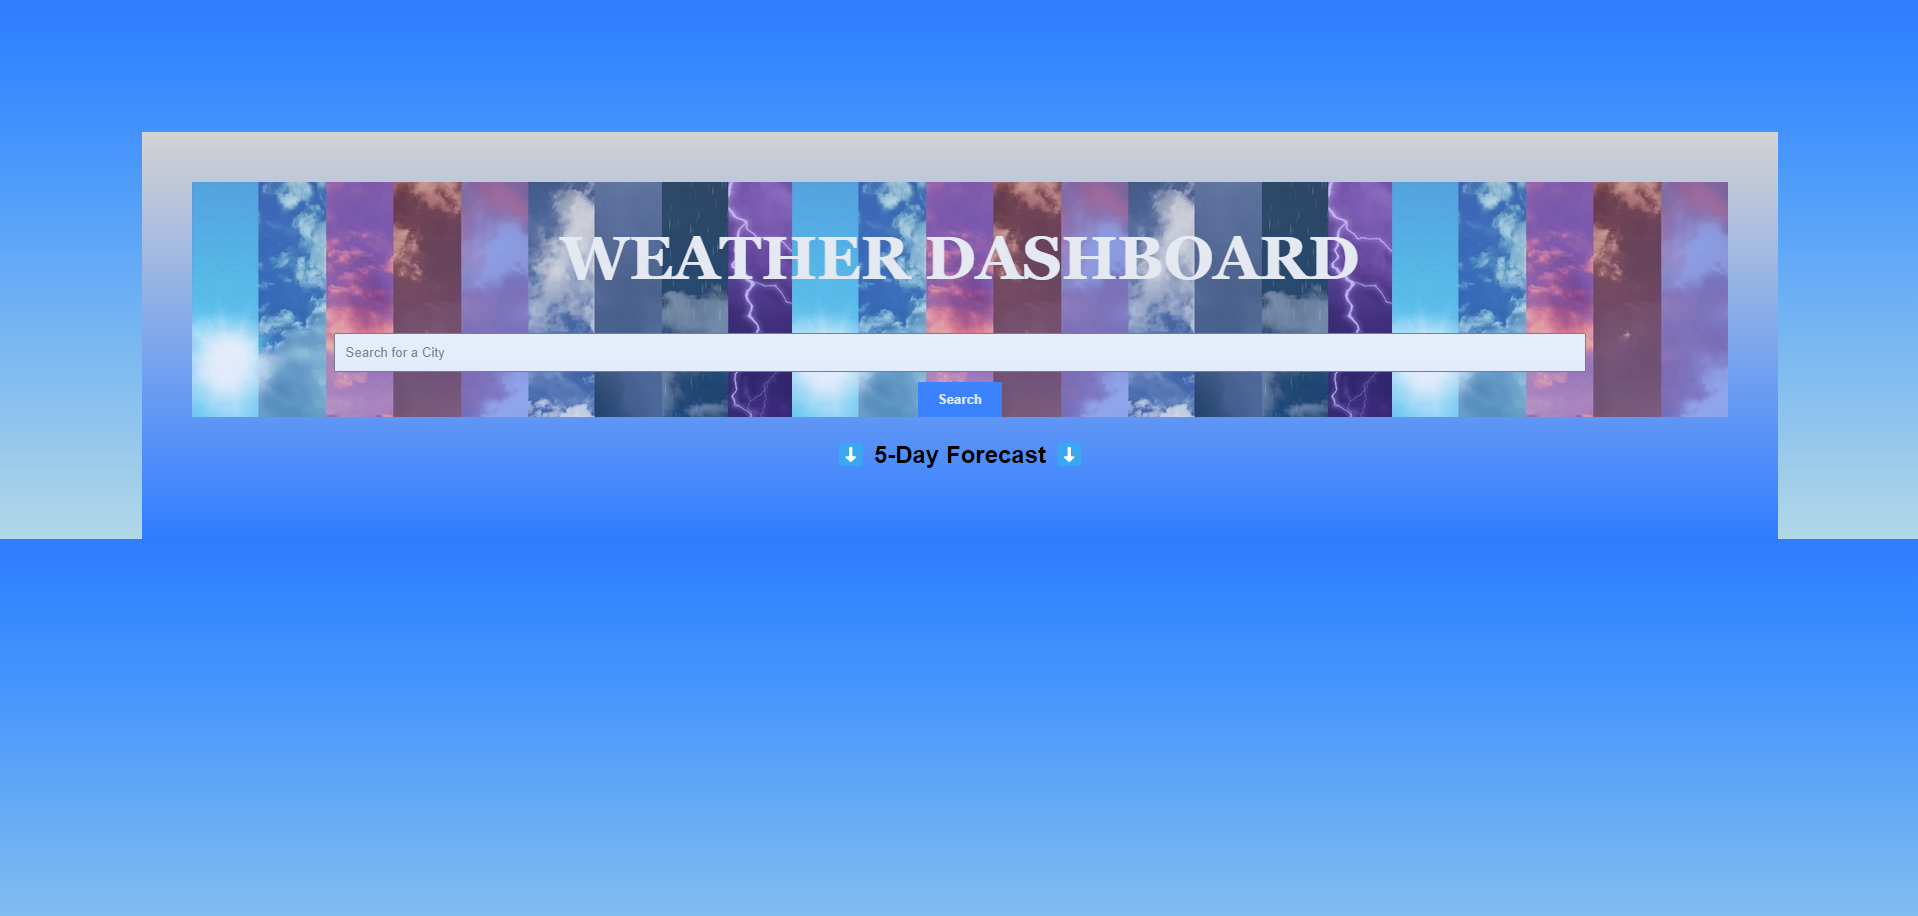
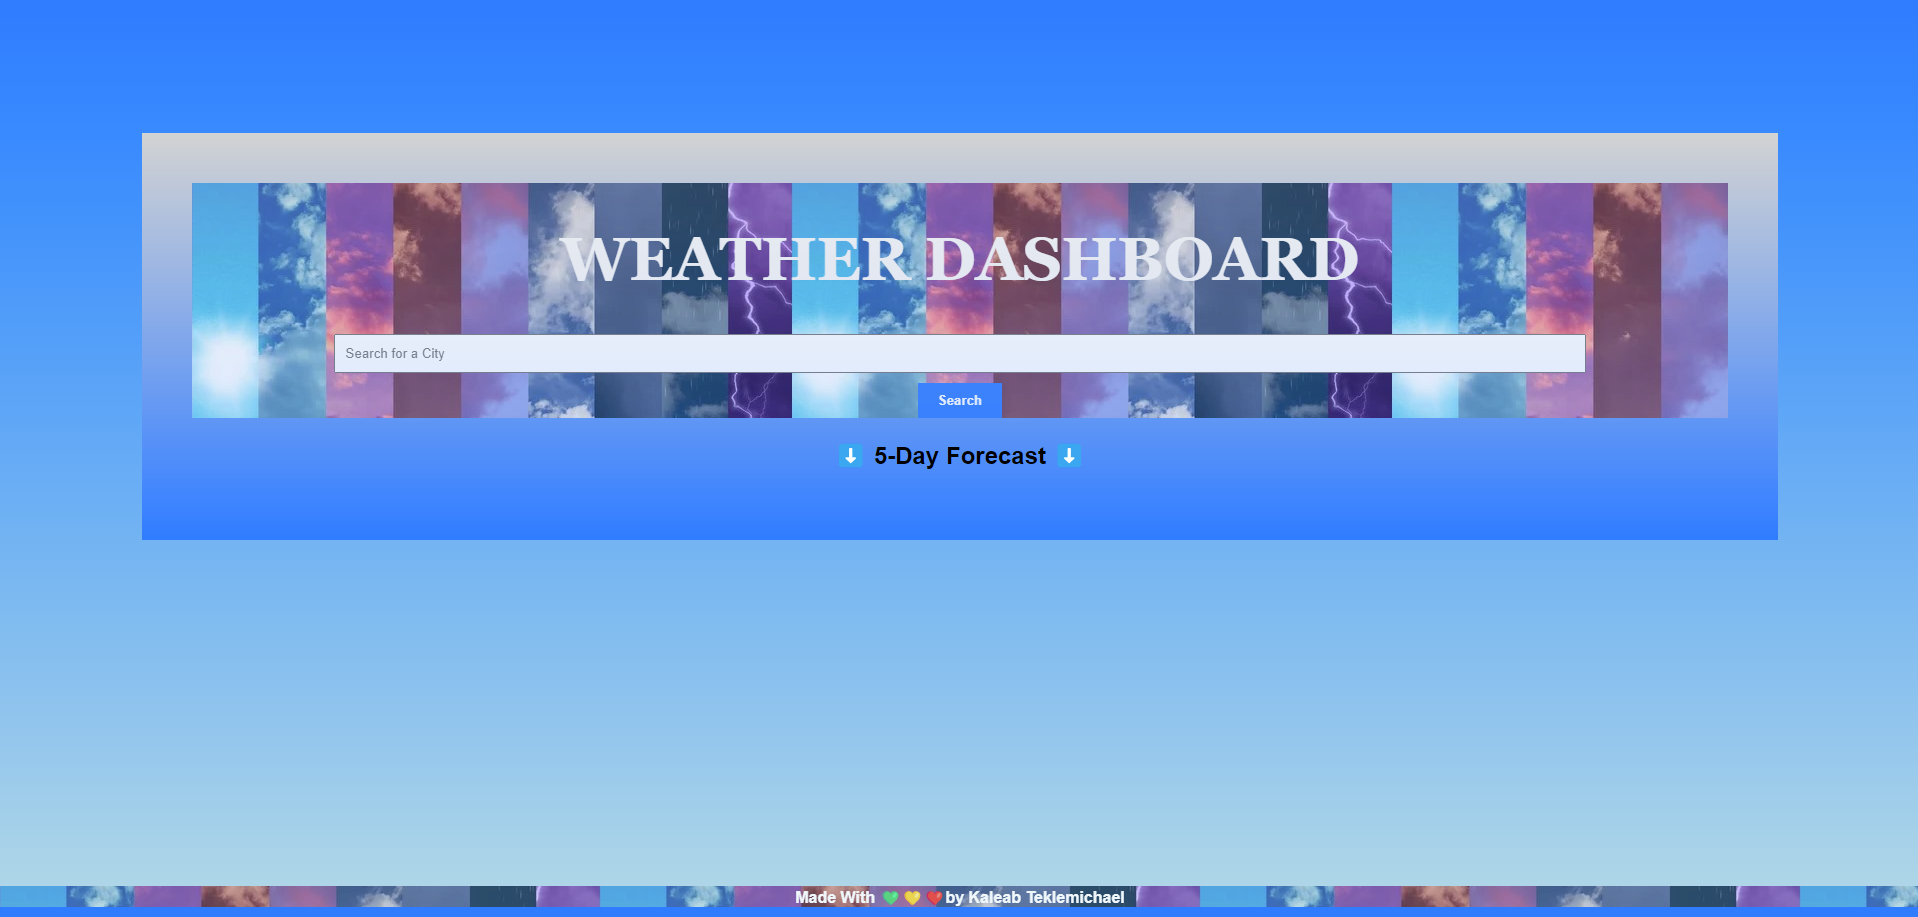
readme, images update

diff --git a/index.html b/index.html
@@ -13,7 +13,7 @@
             <input type="text" id="cityInput" placeholder="Search for a City">
             <button id="searchButton">Search</button>
             <div id="history">
-                <!-- History buttons will be appended here -->
+ 
             </div>
         </div>
         <div class="current-weather">
@@ -27,7 +27,7 @@
         <div class="forecast-section">
             <h2>⬇ 5-Day Forecast ⬇</h2>
             <div id="forecast">
-                <!-- Forecast cards will be appended here -->
+
             </div>
         </div>
     </div>

diff --git a/assets/css/styles.css b/assets/css/styles.css
@@ -98,7 +98,7 @@ footer{
     font-weight: bolder;
     text-align: center;
     opacity: 80%;
-    margin-top: 30% ;
+    margin-top: 18%;
   }
   footer:hover{
     color: black;

diff --git a/README.md b/README.md
@@ -1,7 +1,7 @@
 # Weather Dashboard
 
 This is a weather forcast dashboard that displays the 5day forcast and uses the OpenWeather Api. This weather dashboard will run in the browser and it features a dynamically updated HTML and CSS with the weather data. It also saves you're serached items to localStorage and is a button that you can use to search again.
-Follow this link to access this Weather Dashboard Website - 
+Follow this link to access this Weather Dashboard Website - https://baelak.github.io/KT-M6-weather-Dashboard/
 ![alt text](./assets/images/homepage.png)
 ![alt text](./assets/images/search.png)
 
